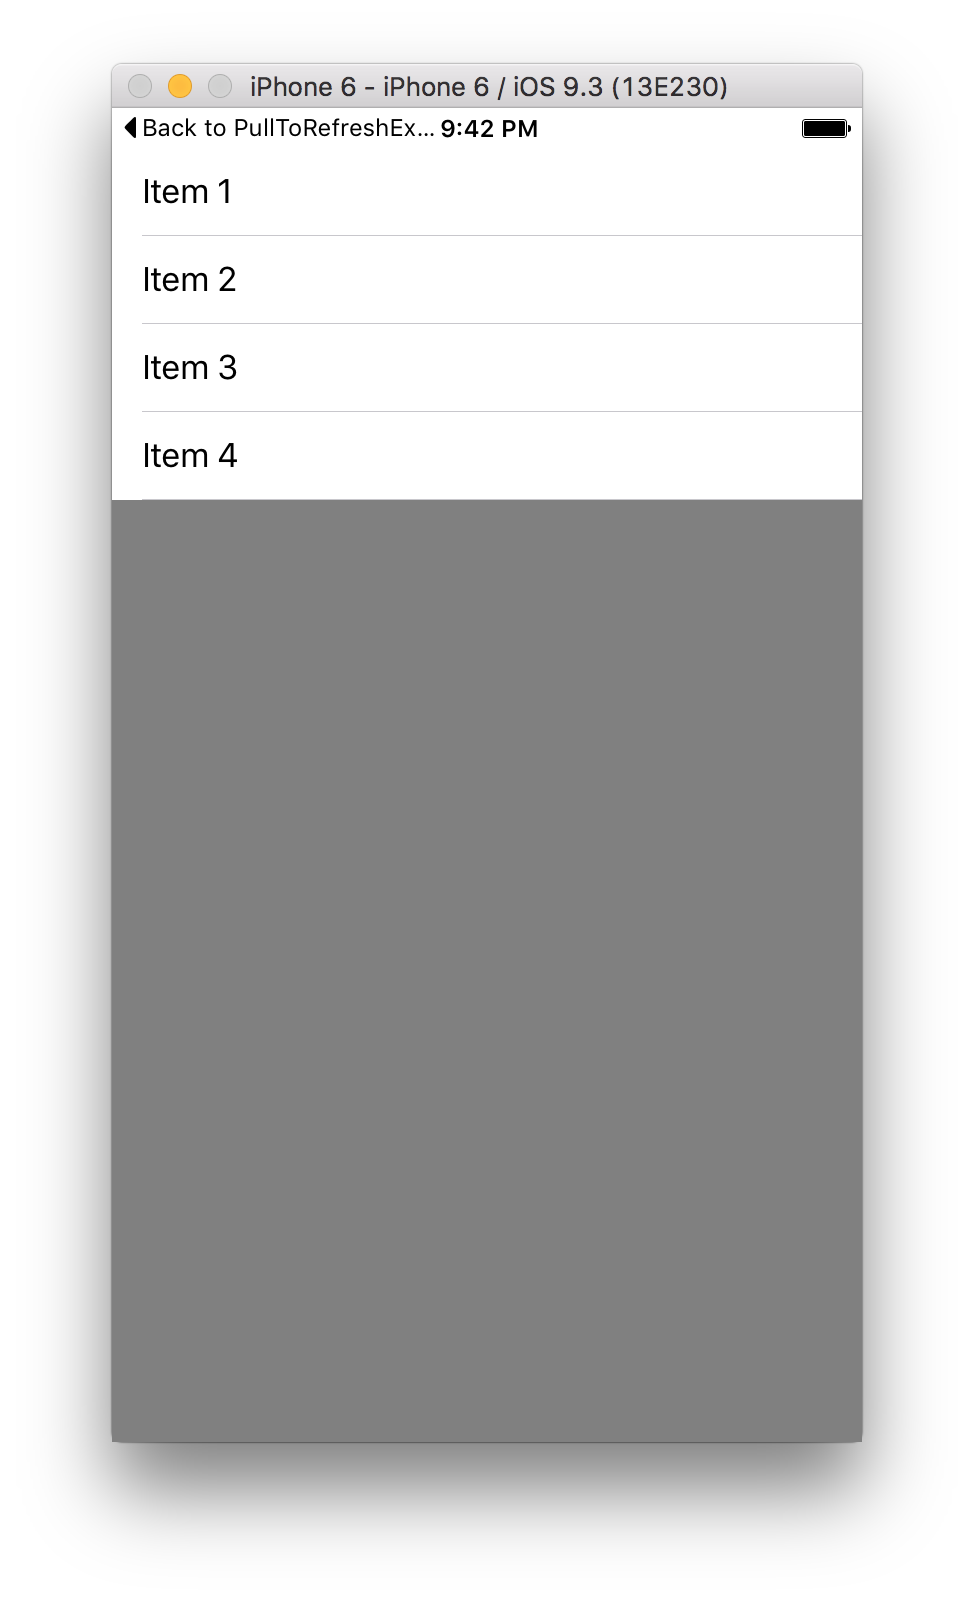
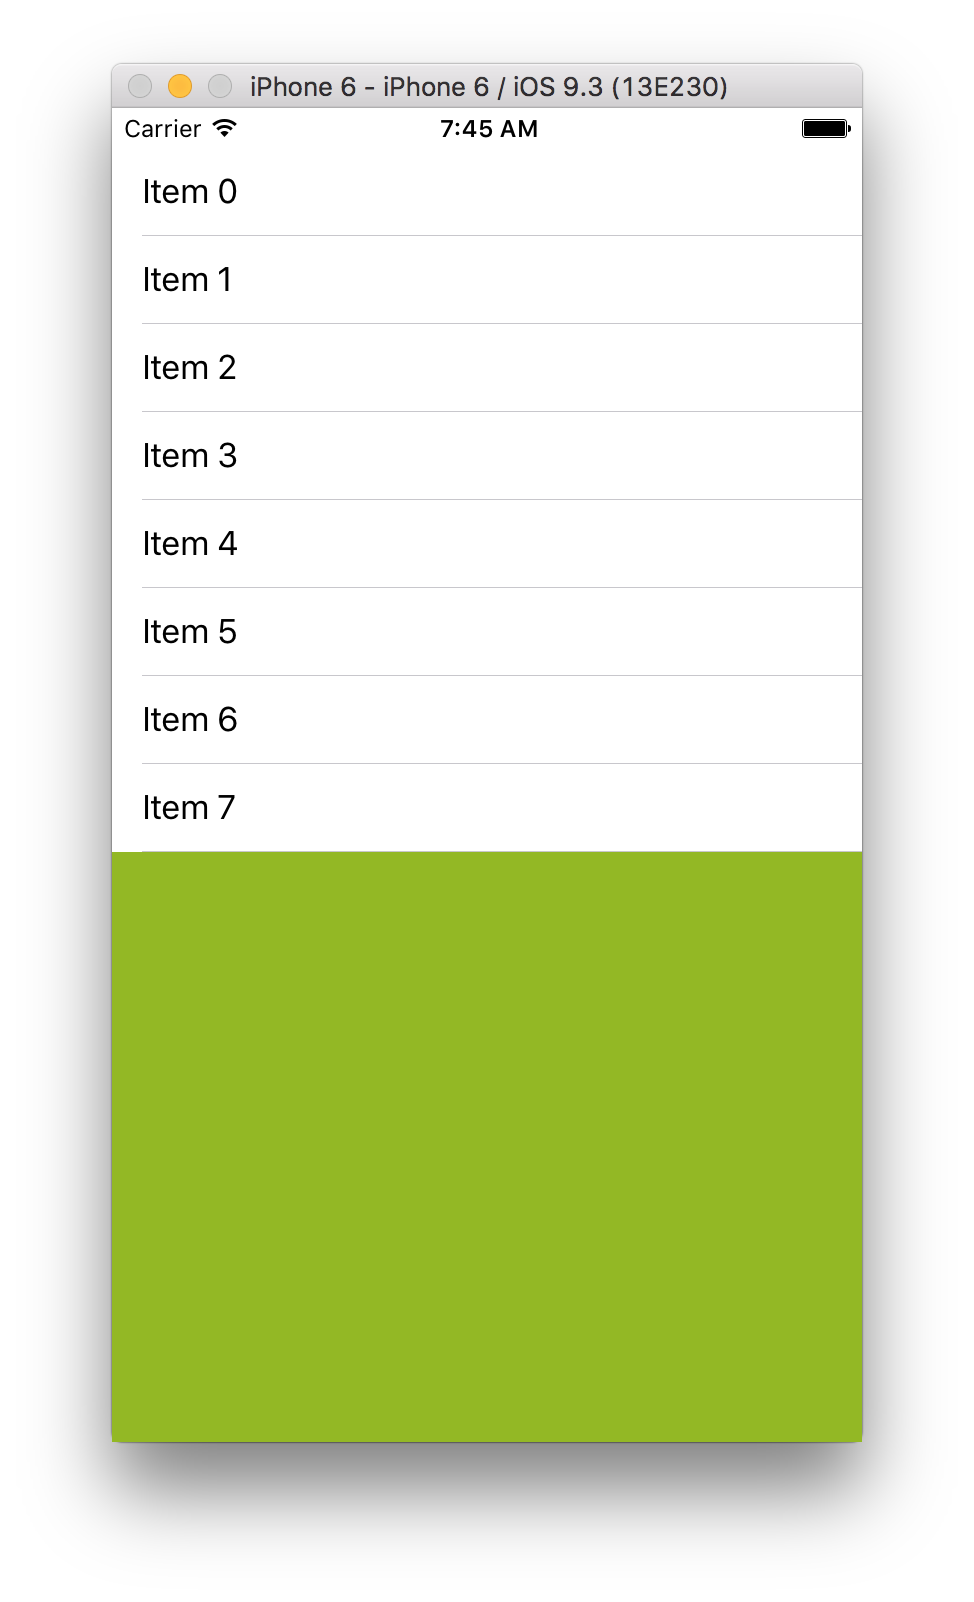
Improve visuals of the auto-resizing table.

diff --git a/UITableView-AutoResizingTable/UITableView-AutoResizingTable/ViewController.swift b/UITableView-AutoResizingTable/UITableView-AutoResizingTable/ViewController.swift
@@ -12,12 +12,12 @@ class ViewController: UIViewController {
     
     @IBOutlet weak var tableView: UITableView!
     
-    let data = ["Item 1", "Item 2", "Item 3", "Item 4"]
+    let numRows = 8
     
     override func viewDidLoad() {
         super.viewDidLoad()
         addEmptyFooterView(tableView)
-        tableView.backgroundColor = UIColor.grayColor()
+        tableView.backgroundColor = UIColor(red: 147/255, green: 184/255, blue: 37/255, alpha: 1.0)
     }
     
     /** Add an empty footer view so that the tableView will automatically be sized according to the contents.
@@ -35,12 +35,12 @@ class ViewController: UIViewController {
     }
     
     func tableView(tableView: UITableView, numberOfRowsInSection section: Int) -> Int {
-        return data.count
+        return numRows
     }
     
     func tableView(tableView: UITableView, cellForRowAtIndexPath indexPath: NSIndexPath) -> UITableViewCell {
         let cell = UITableViewCell()
-        cell.textLabel?.text = data[indexPath.row]
+        cell.textLabel?.text = "Item \(indexPath.row)"
         return cell
     }
 

diff --git a/UITableView-CompressibleHeadersEffect/UITableView-CompressableHeadersEffect/ViewController.swift b/UITableView-CompressibleHeadersEffect/UITableView-CompressableHeadersEffect/ViewController.swift
@@ -5,6 +5,7 @@
 //  Created by Paige Sun on 2016-08-07.
 //  Copyright © 2016 Paige Sun. All rights reserved.
 //
+//  --- What is contentInset and contentOffset? ---
 //  By default in a tableView, the contentView is the same size as the enclosing scrollView.
 //  contentInset increases the scrollView size by setting paddings around the contentView.
 //  The contentInset sets the max values of how far the contentOffset can be go scroll beyond its default scrollable area.
